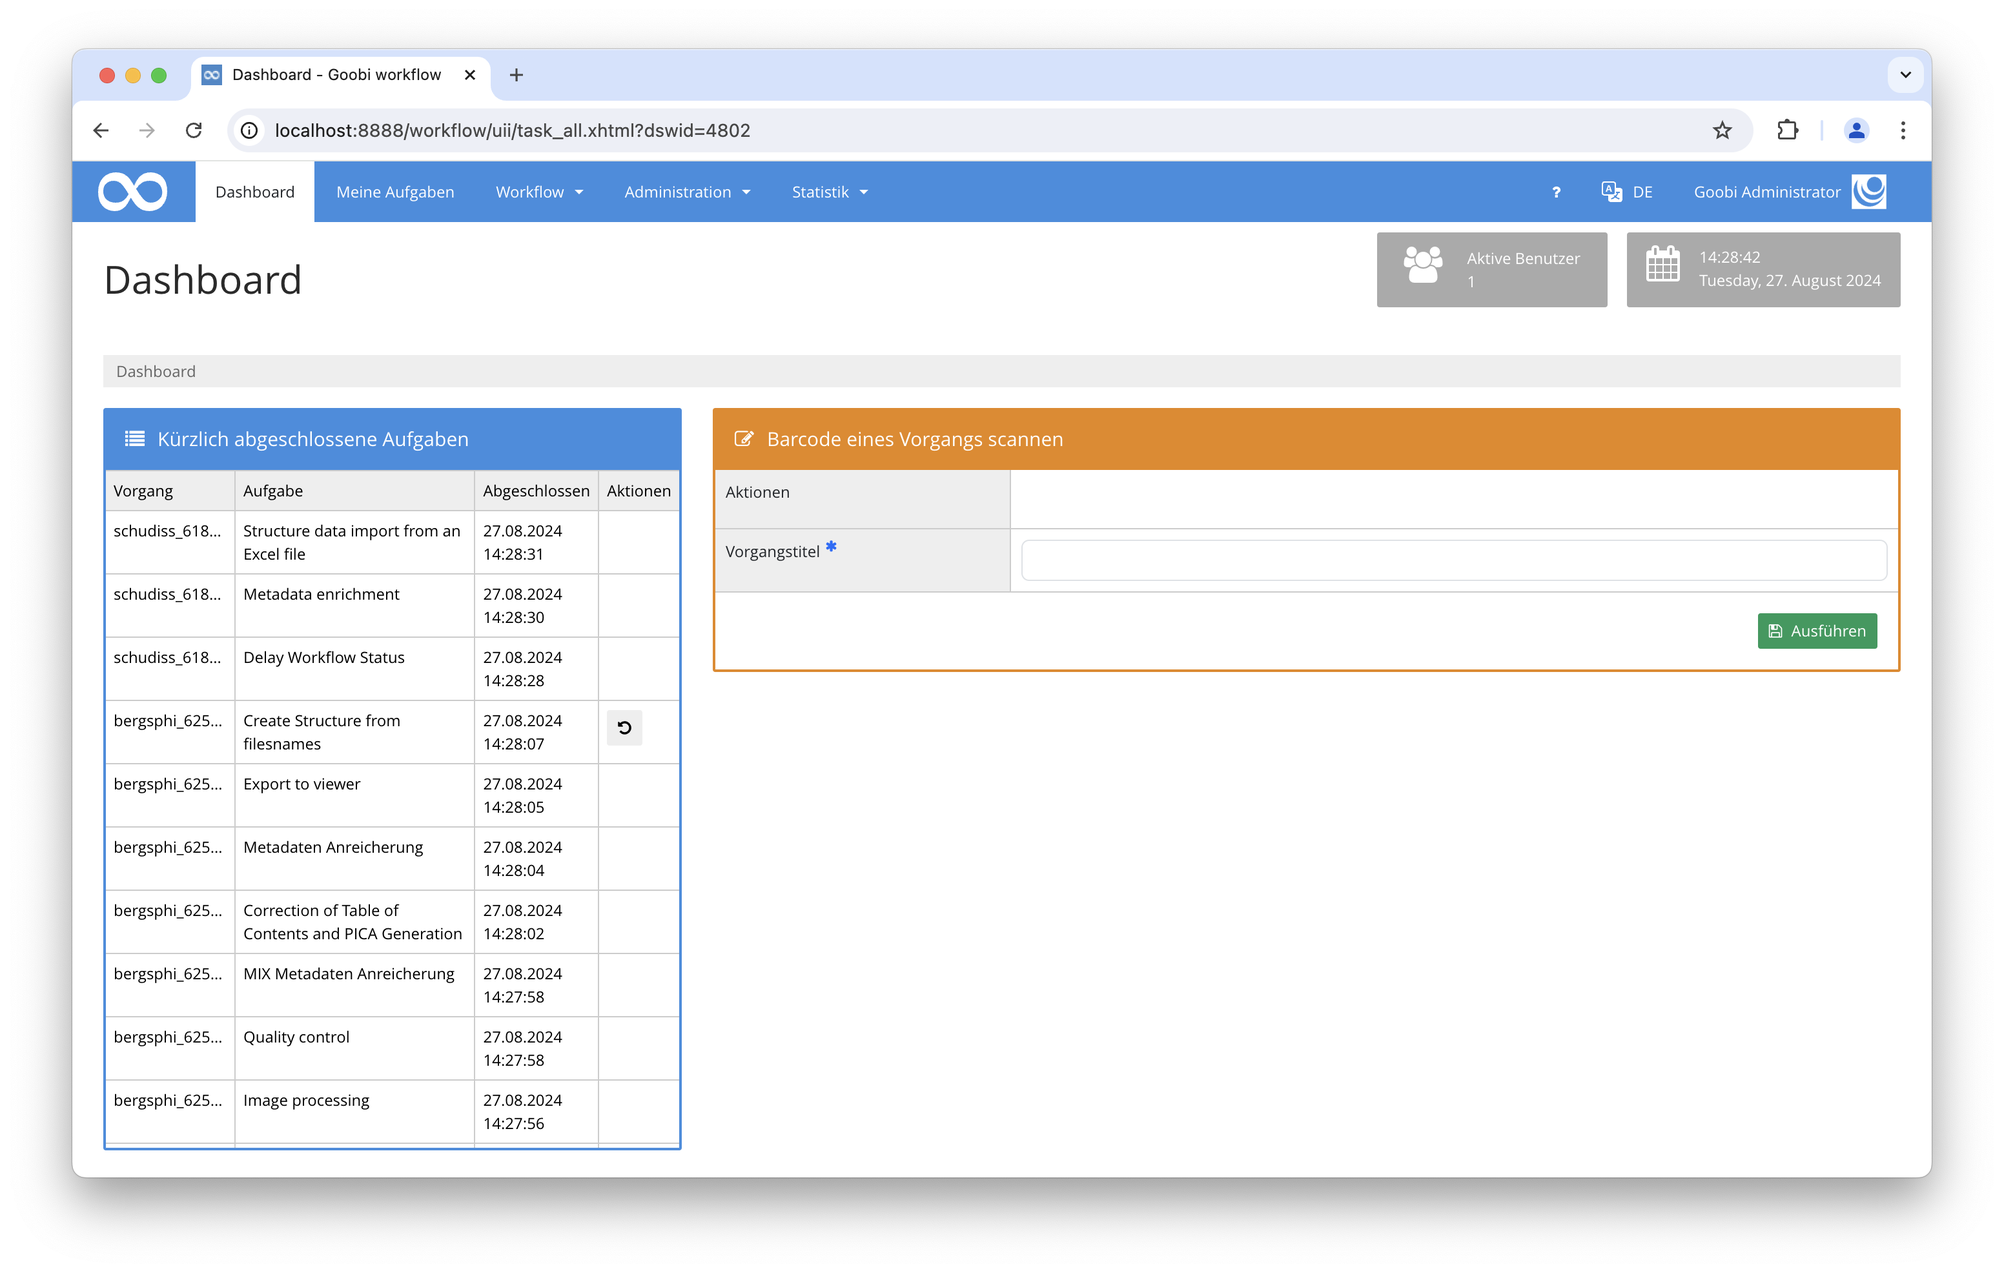
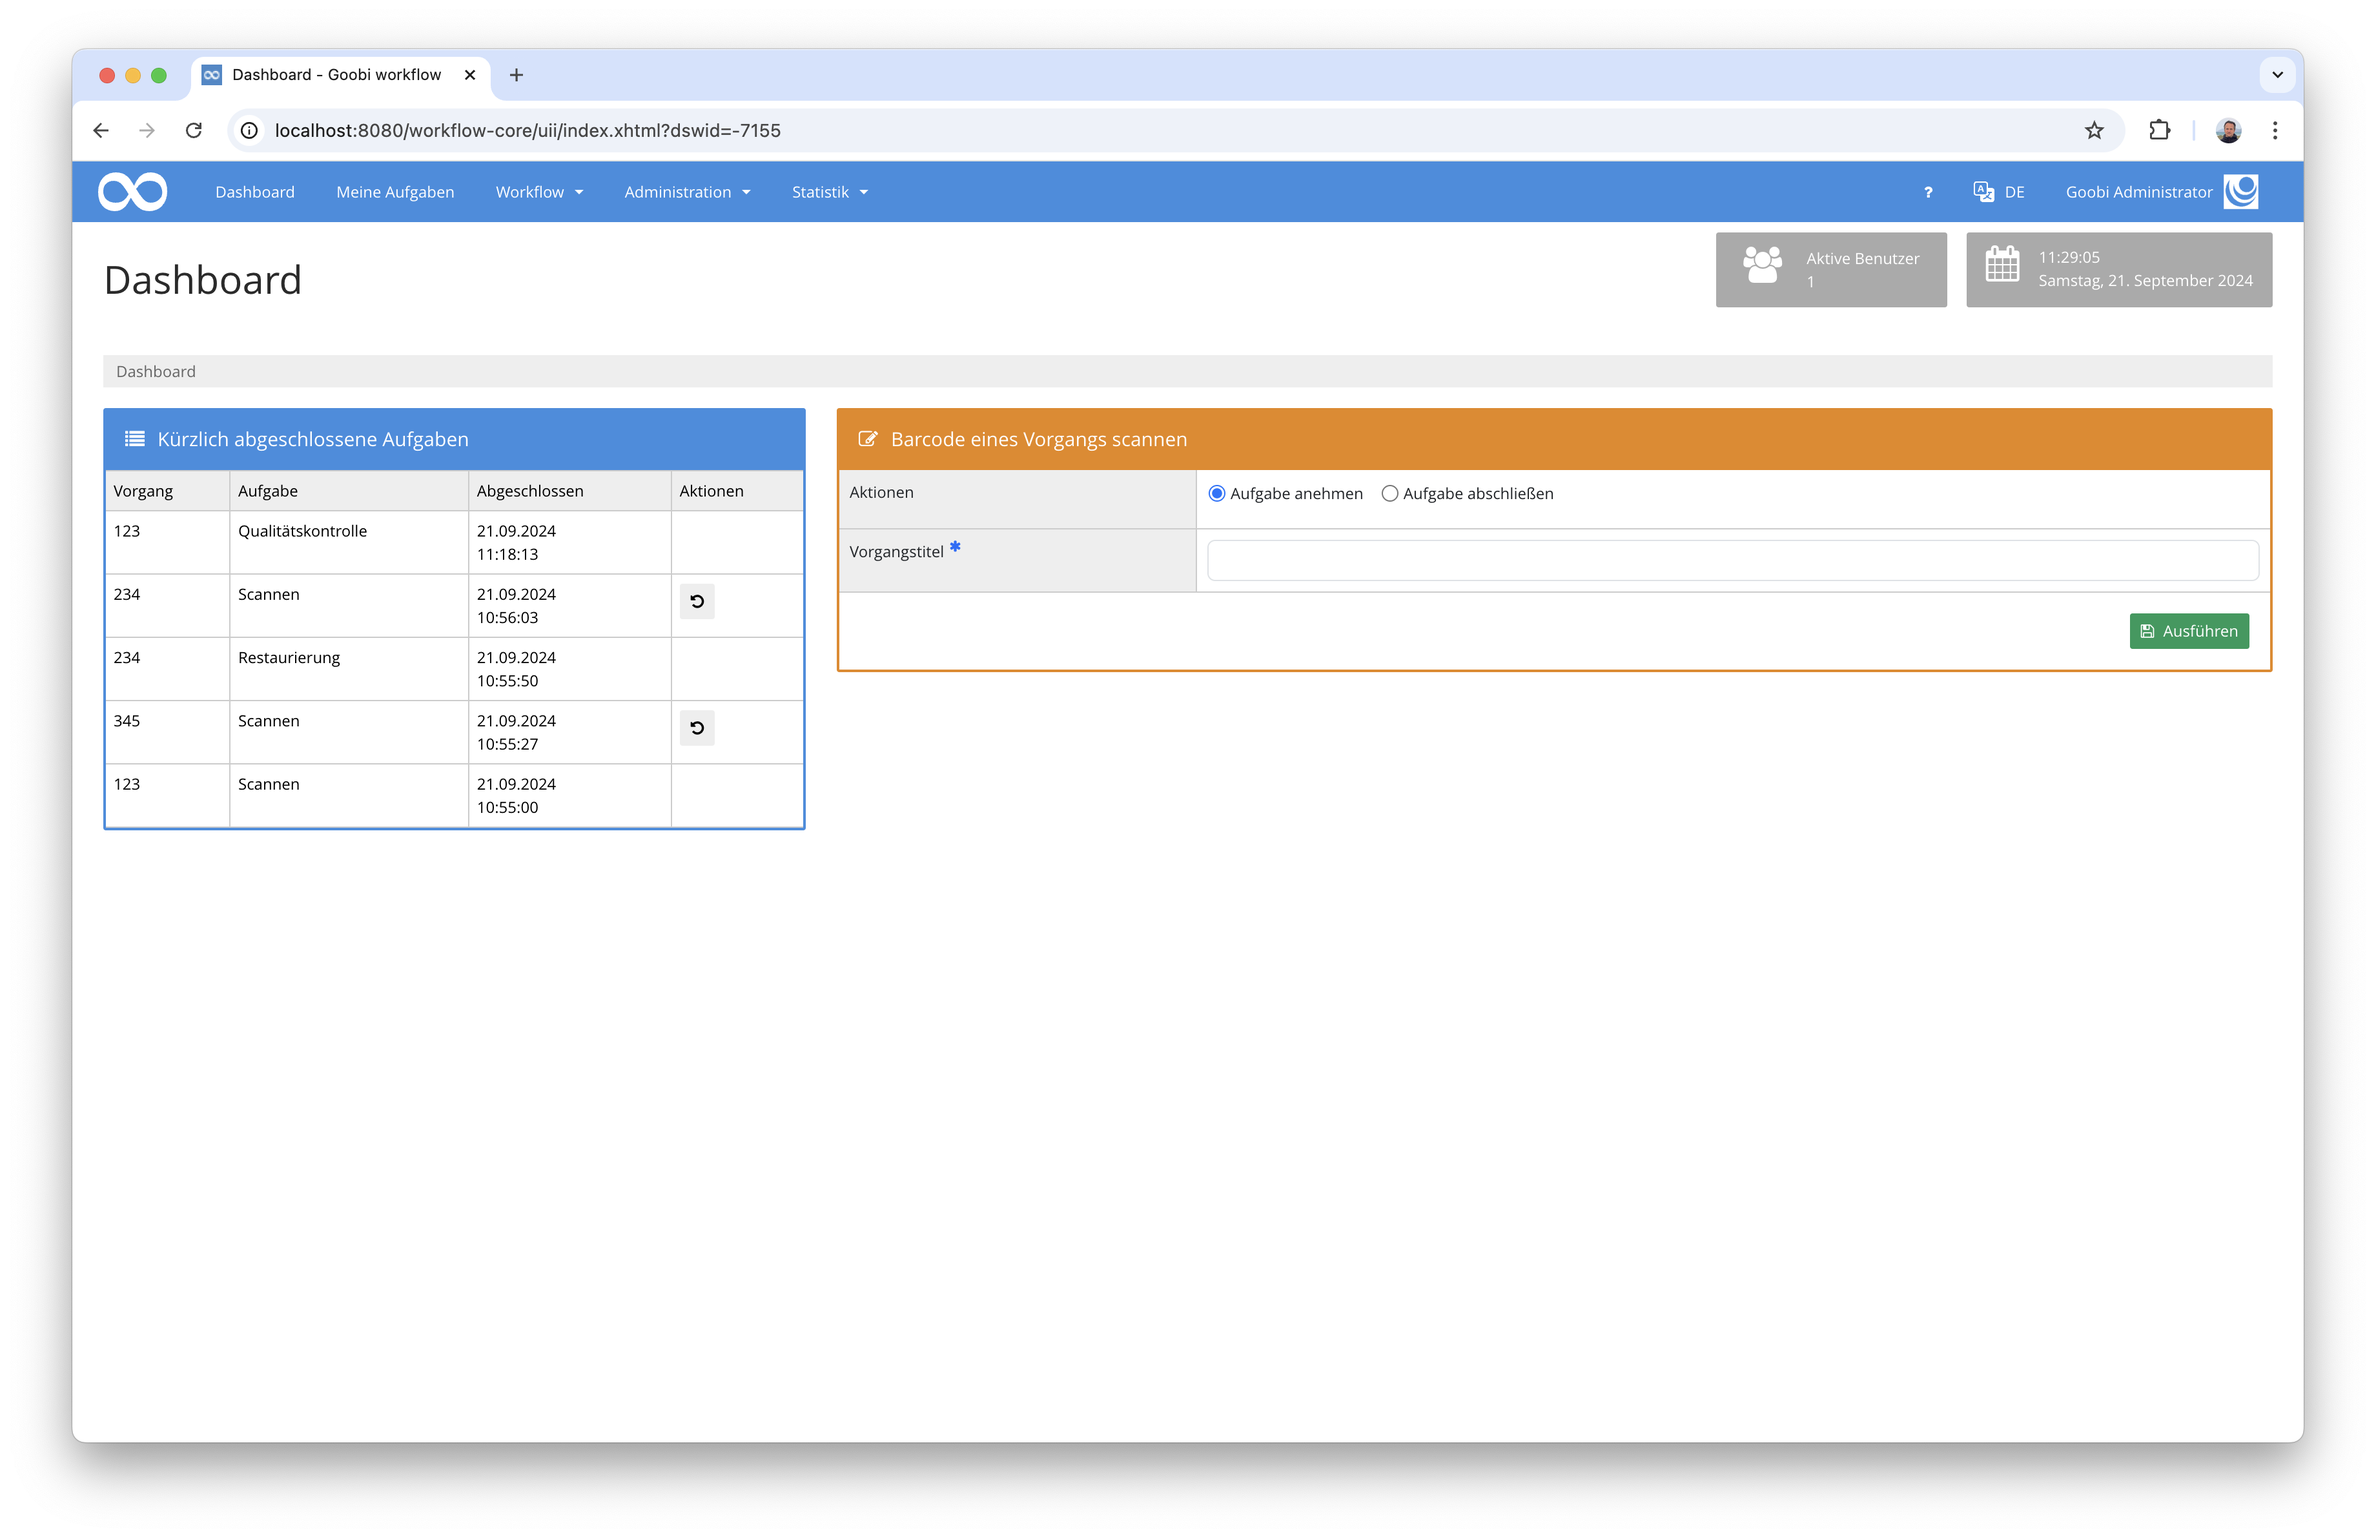
added better screenshots and descriptions

diff --git a/docs/index_de.md b/docs/index_de.md
@@ -30,9 +30,21 @@ Für eine Nutzung dieses Plugins muss der Nutzer innerhalb der Einstellungen fü
 ## Überblick und Funktionsweise
 Um dieses Dashboard-Plugin zu nutzen, muss man es zunächst über `Einstellungen` -> `Allgemein` -> `Dashboard` aktivieren und sich dann ggf. neu anmelden. Wenn das Plugin korrekt installiert und konfiguriert wurde, sollte es bereits unter dem Menüpunkt `Dashboard` aktiviert sein.
 
-![Nutzeroberfläche des Dashboards](screen2_de.png)
+![Das Annehmen und Abschließen von Aufgaben](screen2_de.png)
 
-Auf der rechten Seite befindet sich ein Formular mit verschiedenen Aktionen. Sie können eine auswählen, indem Sie darauf klicken. Wird die Aktion `Nur Ortsänderung` gewählt, gibt es ein zusätzliches Eingabefeld, das den Namen des neuen Orts erwartet. Für alle Aktionen gibt es ein obligatorisches Eingabefeld, in dem der Titel des Goobi-Vorgangs erwartet wird. Dieses Feld wird nach dem Laden automatisch fokussiert, um die Verwendung eines Barcodescanners zu erleichtern. Durch Anklicken des Buttons `Ausführen` wird die gewählte Aktion ausgeführt, und es werden Meldungen über den Erfolg ausgegeben. Die durchgeführte Aktion sowie der Eingabeort werden zur Erleichterung weiterer Anwendungen gespeichert. Sie bleiben unverändert, bis eine manuelle Änderung vorgenommen wird.
+Auf der rechten Seite befindet sich ein Formular mit verschiedenen Aktionen. Sie können eine auswählen, indem Sie darauf klicken. Wird die Aktion `Nur Ortsänderung` gewählt, gibt es ein zusätzliches Eingabefeld, das den Namen des neuen Orts erwartet. 
+
+![Die Erfassung eines Ortswechsels](screen3_de.png)
+
+Für alle Aktionen gibt es ein obligatorisches Eingabefeld, in dem der Titel des Goobi-Vorgangs erwartet wird. Dieses Feld wird nach dem Laden automatisch fokussiert, um die Verwendung eines Barcodescanners zu erleichtern. Durch Anklicken des Buttons `Ausführen` wird die gewählte Aktion ausgeführt, und es werden Meldungen über den Erfolg ausgegeben. Die durchgeführte Aktion sowie der Eingabeort werden zur Erleichterung weiterer Anwendungen gespeichert. Sie bleiben unverändert, bis eine manuelle Änderung vorgenommen wird.
+
+Im Fall, dass Ortwechsel erfasst werden, sind diese auch zu einem späteren Zeitpunkt jederzeit innerhalb des Journals noch nachvollziehbar.
+
+![Gespeicherte Informationen zum Ortswechsel im Journal](screen4_de.png)
+
+Der jeweils aktuelle Aufenthaltsort des Objektes wird darüber hinaus in einer eigenen Eigenschaft gespeichert.
+
+![Aktueller Ort innerhalb einer Eigenschaft](screen5_de.png)
 
 ## Konfiguration
 Die Konfiguration des Plugins erfolgt in der Datei `plugin_intranda_dashboard_barcode.xml` wie hier aufgezeigt:

diff --git a/docs/index_en.md b/docs/index_en.md
@@ -30,9 +30,22 @@ To use this plugin, the user must select the `intranda_dashboard_barcode` value 
 ## Overview and functionality
 To use this dashboard plugin, you first need to activate it via `Settings` -> `General` -> `Dashboard` and then log in again. If the plugin is correctly installed and configured, it should already be activated under the `Dashboard` menu item.
 
-![User interface of the dashboard](screen2_de.png)
+![Accepting and completing tasks](screen2_en.png)
 
-On the right side, there is a form with various actions. You can select one by clicking on it. If the action `Change Location Only` is chosen, an additional input field will appear, expecting the name of the new location. For all actions, there is a mandatory input field where the title of the Goobi process is expected. This field is automatically focused after loading to facilitate the use of a barcode scanner. By clicking the `Execute` button, the selected action will be performed, and messages regarding success will be displayed. The performed action and the input location are saved to facilitate further applications. They remain unchanged until a manual change is made.
+On the right side, there is a form with various actions. You can select one by clicking on it. If the action `Change Location Only` is chosen, an additional input field will appear, expecting the name of the new location. 
+
+![Recording a change of location](screen3_en.png)
+
+For all actions, there is a mandatory input field where the title of the Goobi process is expected. This field is automatically focused after loading to facilitate the use of a barcode scanner. By clicking the `Execute` button, the selected action will be performed, and messages regarding success will be displayed. The performed action and the input location are saved to facilitate further applications. They remain unchanged until a manual change is made.
+
+Im Fall, dass Ortwechsel erfasst werden, sind diese auch zu einem späteren Zeitpunkt jederzeit innerhalb des Journals noch nachvollziehbar.
+
+![Stored information on the change of location in the journal](screen4_en.png)
+
+Der jeweils aktuelle Aufenthaltsort des Objektes wird darüber hinaus in einer eigenen Eigenschaft gespeichert.
+
+![Current location within a property](screen5_en.png)
+
 
 ## Configuration
 The plugin is configured in the file `plugin_intranda_dashboard_barcode.xml` as shown here:
